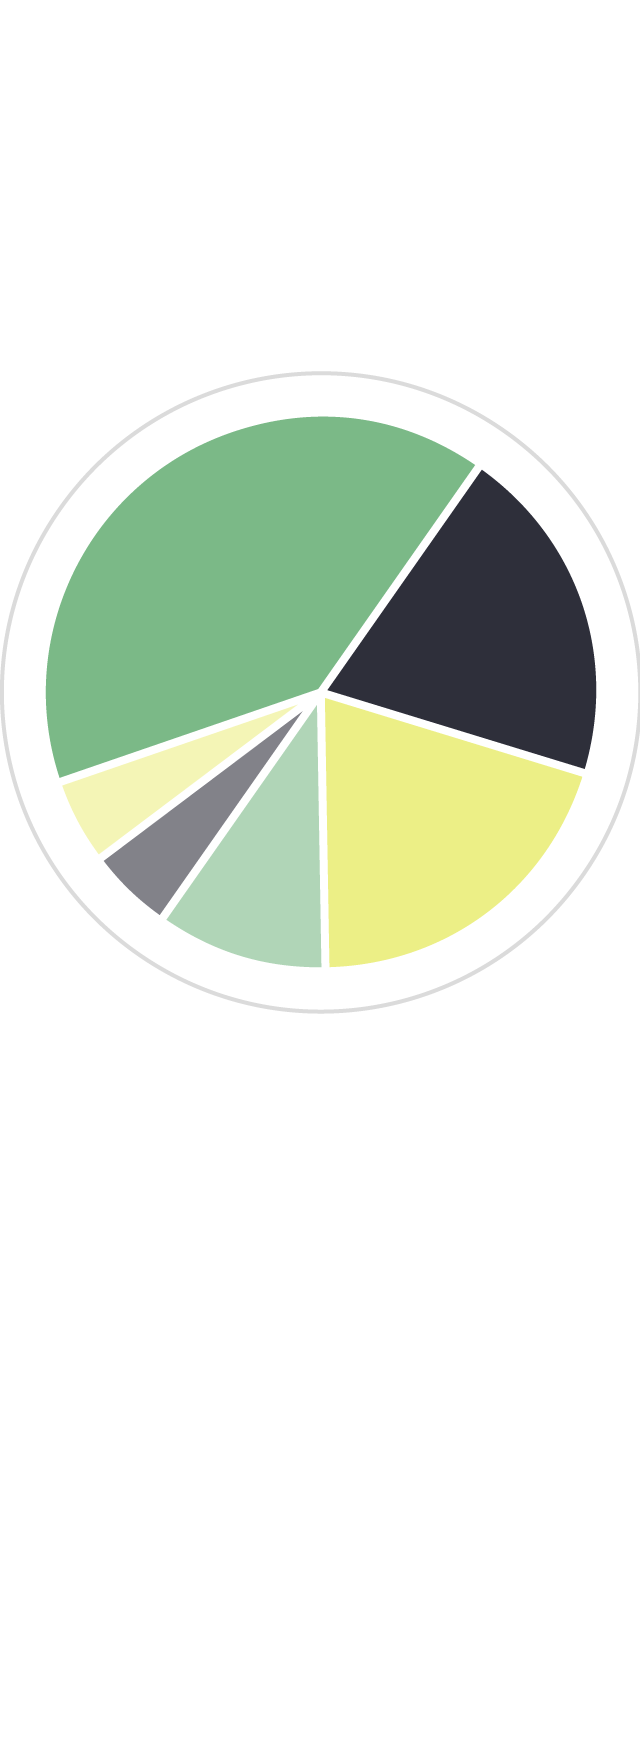
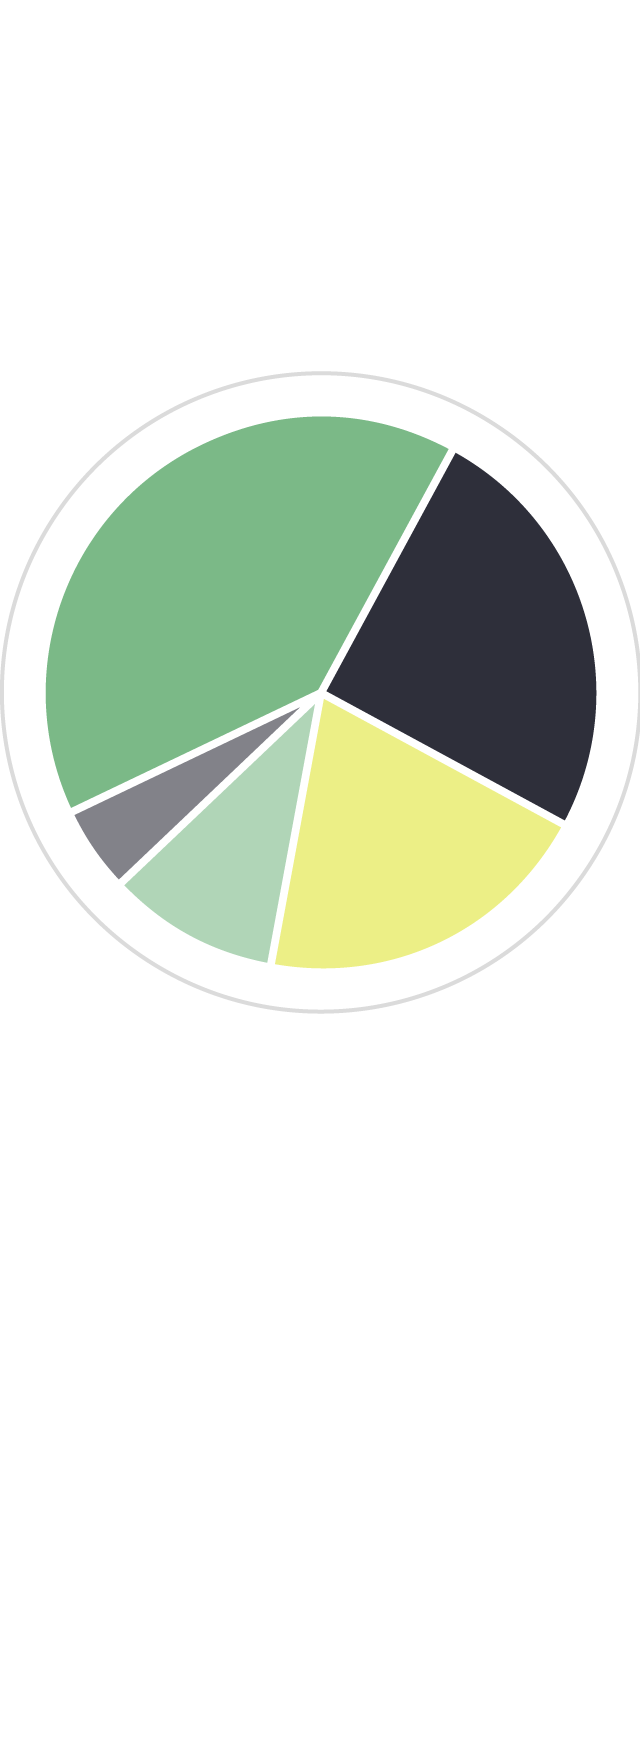
updated media diet graphic

Changed region(s): [[0.0938, 0.246, 0.9062, 0.5535]]

diff --git a/_includes/graphic-mediaDiet.html b/_includes/graphic-mediaDiet.html
@@ -1,4 +1,4 @@
-<!-- Generated by ai2html v0.65.4 - 2017-09-28 16:00 -->
+<!-- Generated by ai2html v0.65.4 - 2018-02-05 15:50 -->
 <!-- ai file: on_graphic_mediaDiet.ai -->
 <style type='text/css' media='screen,print'>
 	#g-on_graphic_mediaDiet-box .g-artboard {
@@ -67,8 +67,8 @@
 	}
 	#g-on_graphic_mediaDiet-tablet p {
 		font-weight:500;
-		font-size:14px;
-		line-height:18px;
+		font-size:12px;
+		line-height:15px;
 		filter:alpha(opacity=100);
 		-ms-filter:progid:DXImageTransform.Microsoft.Alpha(Opacity=100);
 		opacity:1;
@@ -84,26 +84,26 @@
 	#g-on_graphic_mediaDiet-tablet .g-pstyle0 {
 		font-weight:700;
 		font-style:italic;
-		font-size:22px;
-		line-height:26px;
+		font-size:18px;
+		line-height:22px;
 		text-align:center;
 		color:rgb(45,47,58);
 	}
 	#g-on_graphic_mediaDiet-tablet .g-pstyle1 {
-		font-size:29px;
-		line-height:23px;
+		font-size:25px;
+		line-height:20px;
 		letter-spacing:-0.029em;
 		color:rgb(123,185,135);
 	}
 	#g-on_graphic_mediaDiet-tablet .g-pstyle2 {
-		font-size:29px;
-		line-height:23px;
+		font-size:25px;
+		line-height:20px;
 		letter-spacing:-0.029em;
 		color:rgb(46,47,58);
 	}
 	#g-on_graphic_mediaDiet-tablet .g-pstyle3 {
-		font-size:29px;
-		line-height:23px;
+		font-size:25px;
+		line-height:20px;
 		letter-spacing:-0.029em;
 		color:rgb(81,81,81);
 	}
@@ -157,7 +157,7 @@
 		font-size:11px;
 		line-height:9px;
 		letter-spacing:-0.029em;
-		color:rgb(81,81,81);
+		color:rgb(46,47,58);
 	}
 	#g-on_graphic_mediaDiet-mobile .g-pstyle5 {
 		font-size:21px;
@@ -172,7 +172,7 @@
 
 	<!-- Artboard: desktop -->
 	<div id="g-on_graphic_mediaDiet-desktop" class="g-artboard g-artboard-v3" data-min-width='769'>
-		<img id="g-ai0-0" class="g-aiImg lozad" data-src="{{ site.baseurl }}/assets/img/on_graphic_mediaDiet-desktop.png"/>
+		<img id="g-ai0-0" class="g-aiImg" src="{{ site.baseurl }}/assets/img/on_graphic_mediaDiet-desktop.png"/>
 		<div id="g-ai0-1" class="g-Content g-aiAbs g-aiPointText" style="top:6.7837%;margin-top:-18.6px;left:50.1627%;margin-left:-24.1601%;width:491px;">
 			<p class="g-pstyle0">How do Urban Kenyans Consume Media?</p>
 		</div>
@@ -180,7 +180,7 @@
 			<p class="g-pstyle1">WhatsApp</p>
 		</div>
 		<div id="g-ai0-3" class="g-Content g-aiAbs" style="top:23.1552%;left:0.4551%;width:23.5178%;">
-			<p>Across the board, WhatsApp Groups were most widely referenced by respondents to monitor and share news with friends, colleagues, and family.</p>
+			<p>Across the board, respondents most widely referenced using WhatsApp Groups to monitor and share news with friends, colleagues, and family.</p>
 		</div>
 		<div id="g-ai0-4" class="g-Content g-aiAbs g-aiPointText" style="top:29.9293%;margin-top:-32.5px;left:78.133%;width:195px;">
 			<p class="g-pstyle2">Radio &</p>
@@ -189,86 +189,72 @@
 		<div id="g-ai0-5" class="g-Content g-aiAbs" style="top:34.2526%;left:78.133%;width:20.8498%;">
 			<p>Respondents of a variety of ages and socioeconomic statuses referenced using radio and newspapers to cross-reference news they read online.</p>
 		</div>
-		<div id="g-ai0-6" class="g-Content g-aiAbs g-aiPointText" style="top:49.0296%;margin-top:-32.5px;left:0.4551%;width:153px;">
-			<p class="g-pstyle3">Torrented</p>
-			<p class="g-pstyle3">Movies</p>
-		</div>
-		<div id="g-ai0-7" class="g-Content g-aiAbs" style="top:53.8865%;left:0.4551%;width:23.5178%;">
-			<p>Watching torrented movies was common among a variety of ages, but more often cited with younger respondents.</p>
-		</div>
-		<div id="g-ai0-8" class="g-Content g-aiAbs g-aiPointText" style="top:57.0969%;margin-top:-17.1px;left:78.133%;width:157px;">
+		<div id="g-ai0-6" class="g-Content g-aiAbs g-aiPointText" style="top:59.7645%;margin-top:-17.1px;left:78.133%;width:157px;">
 			<p class="g-pstyle3">Television</p>
 		</div>
-		<div id="g-ai0-9" class="g-Content g-aiAbs" style="top:59.9687%;left:78.133%;width:20.8498%;">
-			<p>Older respondents, and those with lower-socioeconomic statuses, seemed to consume more TV&mdash;while young respondents largely avoided programed TV, choosing Youtube or other internet-first providers.</p>
+		<div id="g-ai0-7" class="g-Content g-aiAbs" style="top:62.6364%;left:78.133%;width:20.8498%;">
+			<p>Older respondents, and those with lower socioeconomic statuses, seemed to consume more TV&mdash;while young respondents largely avoided programmed TV, choosing YouTube or other internet-first providers.</p>
 		</div>
-		<div id="g-ai0-10" class="g-Content g-aiAbs g-aiPointText" style="top:73.6787%;margin-top:-32.5px;left:19.3322%;width:150px;">
+		<div id="g-ai0-8" class="g-Content g-aiAbs g-aiPointText" style="top:66.9562%;margin-top:-32.5px;left:3.6715%;width:150px;">
 			<p class="g-pstyle2">Web</p>
 			<p class="g-pstyle2">Browsing</p>
 		</div>
-		<div id="g-ai0-11" class="g-Content g-aiAbs g-aiPointText" style="top:78.2671%;margin-top:-32.5px;left:50.4981%;width:158px;">
+		<div id="g-ai0-9" class="g-Content g-aiAbs" style="top:71.8131%;left:3.6715%;width:25%;">
+			<p>Respondents mostly browsed online using mobile phones, either through a search bar on their device&rsquo;s home screen or through lightweight applications.</p>
+		</div>
+		<div id="g-ai0-10" class="g-Content g-aiAbs g-aiPointText" style="top:78.2671%;margin-top:-32.5px;left:45.1023%;width:158px;">
 			<p class="g-pstyle1">Facebook</p>
 			<p class="g-pstyle1">& Twitter</p>
 		</div>
-		<div id="g-ai0-12" class="g-Content g-aiAbs" style="top:78.5356%;left:19.3322%;width:23.5178%;">
-			<p>Respondents mostly browsed online using mobile phones, either through a search bar on their device&rsquo;s home screen or through light-weight applications.</p>
-		</div>
-		<div id="g-ai0-13" class="g-Content g-aiAbs" style="top:83.1239%;left:50.4981%;width:23.5178%;">
-			<p>Generally, Facebook use is more common than Twitter. But, respondents with an interest in media cited Twitter as useful for finding and sharing news with the &ldquo;right people.&rdquo;</p>
+		<div id="g-ai0-11" class="g-Content g-aiAbs" style="top:83.1239%;left:45.1023%;width:23.5178%;">
+			<p>Generally, Facebook use is more common than Twitter, but respondents with an interest in media cited Twitter as useful for finding and sharing news with the &ldquo;right people.&rdquo;</p>
 		</div>
 	</div>
 
 	<!-- Artboard: tablet -->
 	<div id="g-on_graphic_mediaDiet-tablet" class="g-artboard g-artboard-v3" data-min-width='601' data-max-width='768'>
-		<img id="g-ai1-0" class="g-aiImg lozad" data-src="{{ site.baseurl }}/assets/img/on_graphic_mediaDiet-tablet.png"/>
-		<div id="g-ai1-1" class="g-Content g-aiAbs g-aiPointText" style="top:5.1328%;margin-top:-13.9px;left:50.9692%;margin-left:-28.2576%;width:375px;">
+		<img id="g-ai1-0" class="g-aiImg" src="{{ site.baseurl }}/assets/img/on_graphic_mediaDiet-tablet.png"/>
+		<div id="g-ai1-1" class="g-Content g-aiAbs g-aiPointText" style="top:3.178%;margin-top:-12.1px;left:50.0403%;margin-left:-24.0909%;width:320px;">
 			<p class="g-pstyle0">How do Urban Kenyans Consume Media?</p>
 		</div>
-		<div id="g-ai1-2" class="g-Content g-aiAbs g-aiPointText" style="top:17.8398%;margin-top:-12.7px;left:0.5364%;width:125px;">
+		<div id="g-ai1-2" class="g-Content g-aiAbs g-aiPointText" style="top:16.2525%;margin-top:-10.9px;left:0.5058%;width:107px;">
 			<p class="g-pstyle1">WhatsApp</p>
 		</div>
-		<div id="g-ai1-3" class="g-Content g-aiAbs g-aiPointText" style="top:22.0942%;margin-top:-24.4px;left:77.3474%;width:149px;">
+		<div id="g-ai1-3" class="g-Content g-aiAbs" style="top:18.9588%;left:0.5058%;width:23.4848%;">
+			<p>Across the board, respondents most widely referenced using WhatsApp Groups to monitor and share news with friends, colleagues, and family.</p>
+		</div>
+		<div id="g-ai1-4" class="g-Content g-aiAbs g-aiPointText" style="top:25.4161%;margin-top:-20.9px;left:77.8675%;width:127px;">
 			<p class="g-pstyle2">Radio &</p>
 			<p class="g-pstyle2">Newspapers</p>
 		</div>
-		<div id="g-ai1-4" class="g-Content g-aiAbs" style="top:20.6023%;left:0.5364%;width:27.4242%;">
-			<p>Across the board, WhatsApp Groups were most widely referenced by respondents to monitor and share news with friends, colleagues, and family.</p>
-		</div>
-		<div id="g-ai1-5" class="g-Content g-aiAbs" style="top:26.6113%;left:77.3474%;width:21.2121%;">
+		<div id="g-ai1-5" class="g-Content g-aiAbs" style="top:29.7022%;left:77.8674%;width:20.7576%;">
 			<p>Respondents of a variety of ages and socioeconomic statuses referenced using radio and newspapers to cross-reference news they read online.</p>
 		</div>
-		<div id="g-ai1-6" class="g-Content g-aiAbs g-aiPointText" style="top:46.9887%;margin-top:-24.4px;left:0.5364%;width:117px;">
-			<p class="g-pstyle3">Torrented</p>
-			<p class="g-pstyle3">Movies</p>
-		</div>
-		<div id="g-ai1-7" class="g-Content g-aiAbs g-aiPointText" style="top:52.177%;margin-top:-12.7px;left:77.3474%;width:120px;">
+		<div id="g-ai1-6" class="g-Content g-aiAbs g-aiPointText" style="top:54.1702%;margin-top:-10.9px;left:77.8675%;width:103px;">
 			<p class="g-pstyle3">Television</p>
 		</div>
-		<div id="g-ai1-8" class="g-Content g-aiAbs" style="top:51.935%;left:0.5364%;width:27.4242%;">
-			<p>Watching torrented movies was common among a variety of ages, but more often cited with younger respondents.</p>
+		<div id="g-ai1-7" class="g-Content g-aiAbs" style="top:56.8765%;left:77.8674%;width:20.7576%;">
+			<p>Older respondents, and those with lower socioeconomic statuses, seemed to consume more TV&mdash;while young respondents largely avoided programmed TV, choosing YouTube or other internet-first providers.</p>
 		</div>
-		<div id="g-ai1-9" class="g-Content g-aiAbs" style="top:55.0826%;left:77.3474%;width:21.8182%;">
-			<p>Older respondents, and those with lower-socioeconomic statuses, seemed to consume more TV&mdash;while young respondents largely avoided programed TV, choosing Youtube or other internet-first providers.</p>
-		</div>
-		<div id="g-ai1-10" class="g-Content g-aiAbs g-aiPointText" style="top:72.1693%;margin-top:-24.4px;left:15.0236%;width:115px;">
+		<div id="g-ai1-8" class="g-Content g-aiAbs g-aiPointText" style="top:61.1219%;margin-top:-20.9px;left:3.7092%;width:98px;">
 			<p class="g-pstyle2">Web</p>
 			<p class="g-pstyle2">Browsing</p>
 		</div>
-		<div id="g-ai1-11" class="g-Content g-aiAbs g-aiPointText" style="top:76.8906%;margin-top:-24.4px;left:51.4492%;width:121px;">
+		<div id="g-ai1-9" class="g-Content g-aiAbs" style="top:65.7239%;left:3.7091%;width:24.8485%;">
+			<p>Respondents mostly browsed online using mobile phones, either through a search bar on their device&rsquo;s home screen or through lightweight applications.</p>
+		</div>
+		<div id="g-ai1-10" class="g-Content g-aiAbs g-aiPointText" style="top:71.8652%;margin-top:-20.9px;left:44.9712%;width:103px;">
 			<p class="g-pstyle1">Facebook</p>
 			<p class="g-pstyle1">& Twitter</p>
 		</div>
-		<div id="g-ai1-12" class="g-Content g-aiAbs" style="top:77.2587%;left:15.0236%;width:27.4242%;">
-			<p>Respondents mostly browsed online using mobile phones, either through a search bar on their device&rsquo;s home screen or through light-weight applications.</p>
-		</div>
-		<div id="g-ai1-13" class="g-Content g-aiAbs" style="top:81.8369%;left:51.4491%;width:27.4242%;">
-			<p>Generally, Facebook use is more common than Twitter. But, respondents with an interest in media cited Twitter as useful for finding and sharing news with the &ldquo;right people.&rdquo;</p>
+		<div id="g-ai1-11" class="g-Content g-aiAbs" style="top:76.6252%;left:44.9712%;width:23.4848%;">
+			<p>Generally, Facebook use is more common than Twitter, but respondents with an interest in media cited Twitter as useful for finding and sharing news with the &ldquo;right people.&rdquo;</p>
 		</div>
 	</div>
 
 	<!-- Artboard: mobile -->
 	<div id="g-on_graphic_mediaDiet-mobile" class="g-artboard g-artboard-v3" data-min-width='320' data-max-width='600'>
-		<img id="g-ai2-0" class="g-aiImg lozad" data-src="{{ site.baseurl }}/assets/img/on_graphic_mediaDiet-mobile.png"/>
+		<img id="g-ai2-0" class="g-aiImg" src="{{ site.baseurl }}/assets/img/on_graphic_mediaDiet-mobile.png"/>
 		<div id="g-ai2-1" class="g-Content g-aiAbs g-aiPointText" style="top:2.6041%;margin-top:-10.9px;left:49.7913%;margin-left:-45.9375%;width:296px;">
 			<p class="g-pstyle0">How do Urban Kenyans Consume Media?</p>
 		</div>
@@ -280,60 +266,50 @@
 			<p class="g-pstyle2">WhatsApp</p>
 		</div>
 		<div id="g-ai2-4" class="g-Content g-aiAbs" style="top:10.7068%;left:0.0001%;width:47.8125%;">
-			<p>Across the board, WhatsApp Groups were most widely referenced by respondents to monitor and share news with friends, colleagues, and family.</p>
+			<p>Across the board, respondents most widely referenced using WhatsApp Groups to monitor and share news with friends, colleagues, and family.</p>
 		</div>
 		<div id="g-ai2-5" class="g-Content g-aiAbs" style="top:12.0736%;left:51.6212%;width:48.4375%;">
 			<p>Respondents of a variety of ages and socioeconomic statuses referenced using radio and newspapers to cross-reference news they read online.</p>
 		</div>
-		<div id="g-ai2-6" class="g-Content g-aiAbs g-aiPointText" style="top:32.3626%;margin-top:-5.1px;left:21.9523%;width:50px;">
+		<div id="g-ai2-6" class="g-Content g-aiAbs g-aiPointText" style="top:33.6155%;margin-top:-5.1px;left:25.3898%;width:50px;">
 			<p class="g-pstyle3">WhatsApp</p>
 		</div>
-		<div id="g-ai2-7" class="g-Content g-aiAbs g-aiPointText" style="top:35.8461%;margin-top:-9.7px;left:67.3984%;width:59px;">
+		<div id="g-ai2-7" class="g-Content g-aiAbs g-aiPointText" style="top:36.4156%;margin-top:-9.7px;left:67.3984%;width:59px;">
 			<p class="g-pstyle3">Radio &</p>
 			<p class="g-pstyle3">Newspapers</p>
 		</div>
-		<div id="g-ai2-8" class="g-Content g-aiAbs g-aiPointText" style="transform: matrix(0.9043,-0.4269,0.4269,0.9043,0,0);transform-origin: 50% 59.7505237097696%;-webkit-transform: matrix(0.9043,-0.4269,0.4269,0.9043,0,0);-webkit-transform-origin: 50% 59.7505237097696%;-ms-transform: matrix(0.9043,-0.4269,0.4269,0.9043,0,0);-ms-transform-origin: 50% 59.7505237097696%;top:44.4362%;margin-top:-5.1px;left:12.7128%;width:70px;">
-			<p class="g-pstyle4">Web Browsing</p>
+		<div id="g-ai2-8" class="g-Content g-aiAbs g-aiPointText" style="transform: matrix(0.856,-0.517,0.517,0.856,0,0);transform-origin: 50% 59.7505237097696%;-webkit-transform: matrix(0.856,-0.517,0.517,0.856,0,0);-webkit-transform-origin: 50% 59.7505237097696%;-ms-transform: matrix(0.856,-0.517,0.517,0.856,0,0);-ms-transform-origin: 50% 59.7505237097696%;top:45.4613%;margin-top:-5.1px;left:14.9003%;width:70px;">
+			<p class="g-pstyle3">Web Browsing</p>
 		</div>
-		<div id="g-ai2-9" class="g-Content g-aiAbs g-aiPointText" style="transform: matrix(0.6726,-0.74,0.74,0.6726,0,0);transform-origin: 50% 59.7505237097696%;-webkit-transform: matrix(0.6726,-0.74,0.74,0.6726,0,0);-webkit-transform-origin: 50% 59.7505237097696%;-ms-transform: matrix(0.6726,-0.74,0.74,0.6726,0,0);-ms-transform-origin: 50% 59.7505237097696%;top:47.1698%;margin-top:-5.1px;left:17.2568%;width:83px;">
-			<p class="g-pstyle3">Torrented Movies</p>
+		<div id="g-ai2-9" class="g-Content g-aiAbs g-aiPointText" style="top:47.7393%;margin-top:-5.1px;left:55.3895%;width:48px;">
+			<p class="g-pstyle4">Television</p>
 		</div>
-		<div id="g-ai2-10" class="g-Content g-aiAbs g-aiPointText" style="top:47.7393%;margin-top:-5.1px;left:60.8582%;width:48px;">
-			<p class="g-pstyle3">Television</p>
-		</div>
-		<div id="g-ai2-11" class="g-Content g-aiAbs g-aiPointText" style="top:49.7421%;margin-top:-9.7px;left:33.9295%;width:48px;">
+		<div id="g-ai2-10" class="g-Content g-aiAbs g-aiPointText" style="top:49.2865%;margin-top:-9.7px;left:28.4608%;width:48px;">
 			<p class="g-pstyle3">Facebook</p>
 			<p class="g-pstyle3">& Twitter</p>
 		</div>
-		<div id="g-ai2-12" class="g-Content g-aiAbs g-aiPointText" style="top:61.0416%;margin-top:-17.9px;left:0.0001%;width:84px;">
-			<p class="g-pstyle5">Web</p>
-			<p class="g-pstyle5">Browsing</p>
-		</div>
-		<div id="g-ai2-13" class="g-Content g-aiAbs g-aiPointText" style="top:62.0073%;margin-top:-9.4px;left:51.6212%;width:88px;">
-			<p class="g-pstyle5">Television</p>
-		</div>
-		<div id="g-ai2-14" class="g-Content g-aiAbs" style="top:64.0127%;left:0.0001%;width:47.8125%;">
-			<p>Respondents mostly browsed online using mobile phones, either through a search bar on their device&rsquo;s home screen or through light-weight applications.</p>
-		</div>
-		<div id="g-ai2-15" class="g-Content g-aiAbs" style="top:64.0127%;left:51.6212%;width:48.4375%;">
-			<p>Older respondents, and those with lower-socioeconomic statuses, seemed to consume more TV&mdash;while young respondents largely avoided programed TV, choosing Youtube or other internet-first providers.</p>
-		</div>
-		<div id="g-ai2-16" class="g-Content g-aiAbs g-aiPointText" style="top:80.4049%;margin-top:-17.9px;left:51.6212%;width:88px;">
+		<div id="g-ai2-11" class="g-Content g-aiAbs g-aiPointText" style="top:61.1555%;margin-top:-17.9px;left:51.6212%;width:88px;">
 			<p class="g-pstyle2">Facebook</p>
 			<p class="g-pstyle2">& Twitter</p>
 		</div>
-		<div id="g-ai2-17" class="g-Content g-aiAbs g-aiPointText" style="top:80.4049%;margin-top:-17.9px;left:0.0001%;width:85px;">
-			<p class="g-pstyle1">Torrented</p>
-			<p class="g-pstyle1">Movies</p>
+		<div id="g-ai2-12" class="g-Content g-aiAbs g-aiPointText" style="top:62.0073%;margin-top:-9.4px;left:0.6751%;width:88px;">
+			<p class="g-pstyle5">Television</p>
 		</div>
-		<div id="g-ai2-18" class="g-Content g-aiAbs" style="top:83.376%;left:51.6212%;width:48.4375%;">
-			<p>Generally, Facebook use is more common than Twitter. But, respondents with an interest in media cited Twitter as useful for finding and sharing news with the &ldquo;right people.&rdquo;</p>
+		<div id="g-ai2-13" class="g-Content g-aiAbs" style="top:64.0127%;left:0.6751%;width:48.4375%;">
+			<p>Older respondents, and those with lower socioeconomic statuses, seemed to consume more TV&mdash;while young respondents largely avoided programmed TV, choosing YouTube or other internet-first providers.</p>
 		</div>
-		<div id="g-ai2-19" class="g-Content g-aiAbs" style="top:83.376%;left:0.2483%;width:47.8125%;">
-			<p>Watching torrented movies was common among a variety of ages, but more often cited with younger respondents.</p>
+		<div id="g-ai2-14" class="g-Content g-aiAbs" style="top:64.1266%;left:51.6212%;width:48.4375%;">
+			<p>Generally, Facebook use is more common than Twitter, but respondents with an interest in media cited Twitter as useful for finding and sharing news with the &ldquo;right people.&rdquo;</p>
+		</div>
+		<div id="g-ai2-15" class="g-Content g-aiAbs g-aiPointText" style="top:83.5942%;margin-top:-17.9px;left:0.6751%;width:84px;">
+			<p class="g-pstyle5">Web</p>
+			<p class="g-pstyle5">Browsing</p>
+		</div>
+		<div id="g-ai2-16" class="g-Content g-aiAbs" style="top:86.5652%;left:0.6751%;width:47.8125%;">
+			<p>Respondents mostly browsed online using mobile phones, either through a search bar on their device&rsquo;s home screen or through lightweight applications.</p>
 		</div>
 	</div>
 
 </div>
 
-<!-- End ai2html - 2017-09-28 16:00 -->
+<!-- End ai2html - 2018-02-05 15:50 -->
